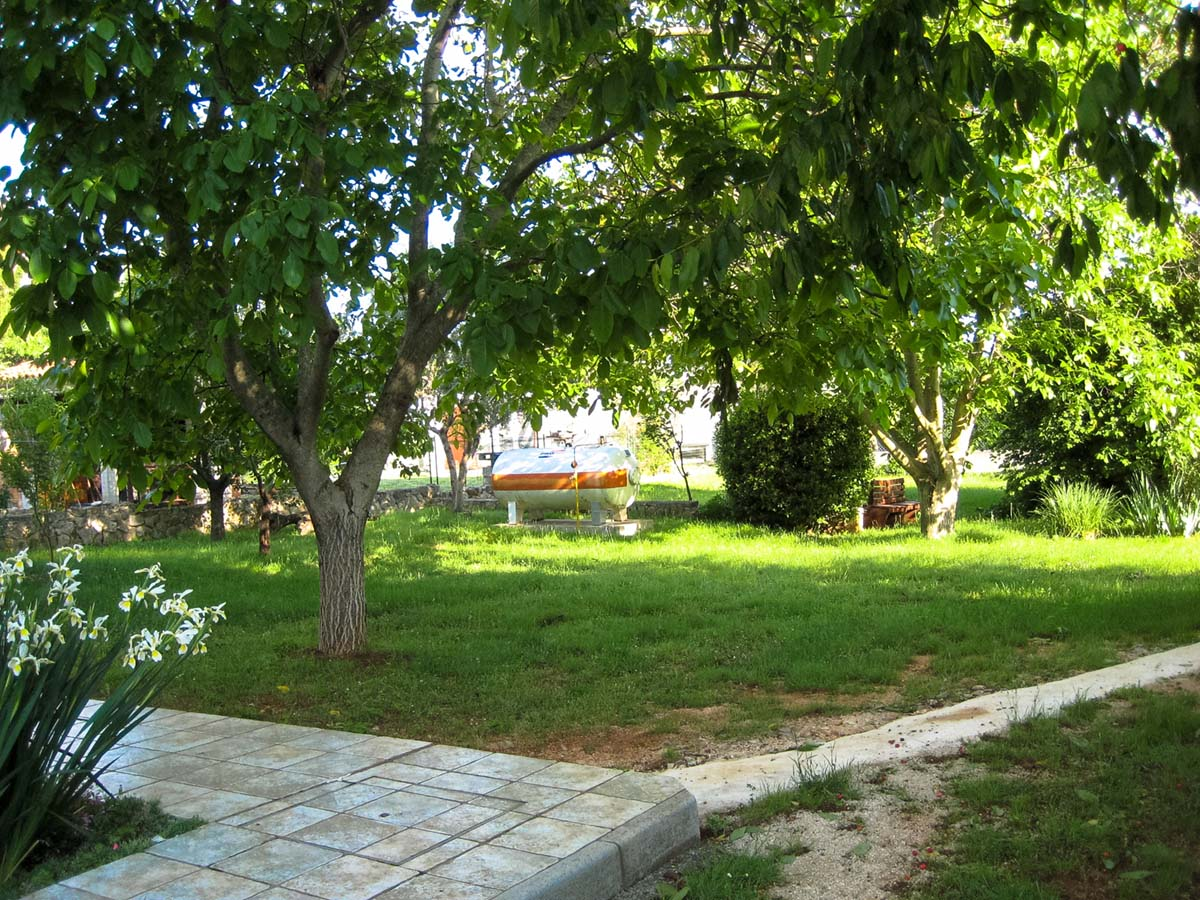
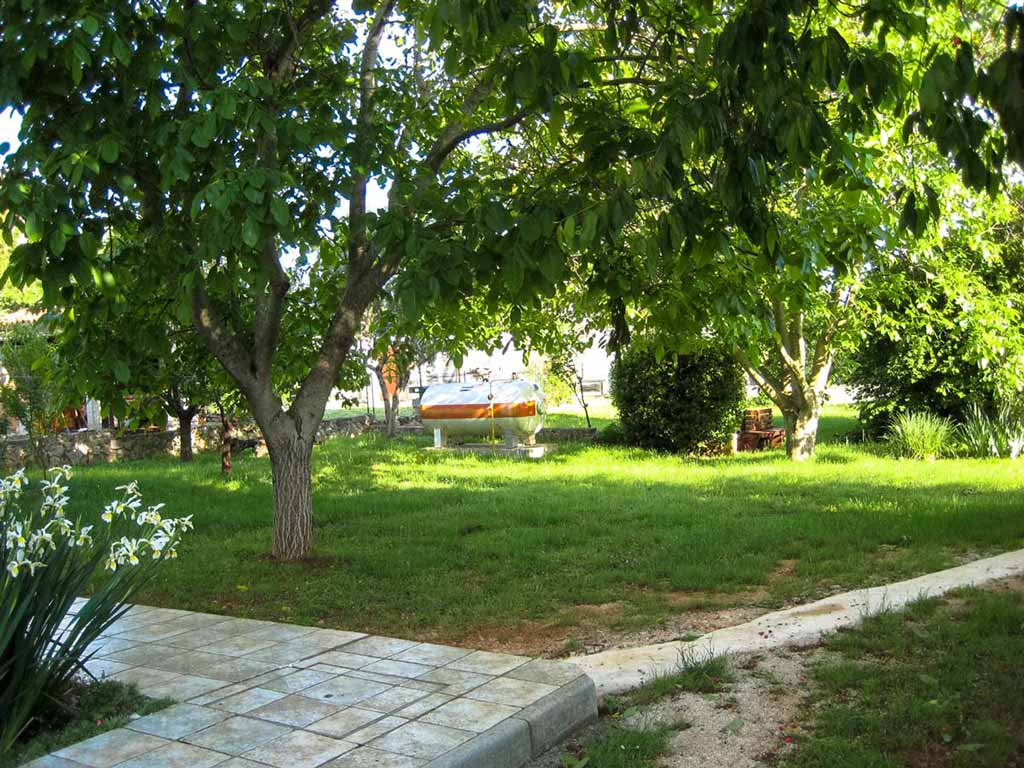
Resized Slide Show pics. Polishing translations.

diff --git a/index.html b/index.html
@@ -3,7 +3,7 @@
 <head>
   <title>Apartments "Coca-Letta" - affordable accommodation - apartment rental, in Rovinj, Croatia. Since 1987!</title>
   <meta name="description" content="Cozy, yet affordable accommodation in Rovinj, Croatia. Rented daily, weekly, monthly. Since 1987!">
-  <meta name="keyword" content="Rovinj, accommodation, szállás, apartment, rental, affordable, affordable apartment rental in rovinj">
+  <meta name="keyword" content="Rovinj, accommodation, szállás, Ubytování, mieszkanie, ubytovanie, apartment, rental, affordable, affordable apartment rental in rovinj">
   
   <meta charset="utf-8">
   <meta http-equiv="content-script-type" content="text/javascript"> 
@@ -115,7 +115,7 @@ alt="web analytics"></a></div></noscript>
 	<div id="header"> 
     	<a class="tr_apartments">Apartments</a><h> “Coca-Letta”</h><a> - Rovinj, </a><a class="tr_hrvatska">Croatia</a>
         <h1 class="tr_header_intro_text" id="header_intro_text">Cozy, affordable accommodation in Rovinj, Croatia. Since 1987.</h1>
-        <h1 class="tr_header_welcome_text" id="header_welcome_text">* Dobrodošli * Willkommen * Benvenuti * Welcome * Добро пожаловать * Vítáme vás * Bienvenidos * Fogadtatás * ברוך הבא *</h1>
+        <h1 class="tr_header_welcome_text" id="header_welcome_text">* Dobrodošli * Willkommen * Benvenuti * Welcome * Добро пожаловать * Vítáme vás * Bienvenidos * Isten hozta * ברוך הבא *</h1>
     </div>
     
   <div id="main_slider_kontejner">   
@@ -216,7 +216,7 @@ alt="web analytics"></a></div></noscript>
   </div>
         
   <div id="footer_band">
-	  <a id="footer_band_welcome_text">* Dobrodošli * Willkommen * Benvenuti * Welcome * Добро пожаловать * Vítáme vás * Bienvenidos * Fogadtatás * ברוך הבא *</a>
+	  <a id="footer_band_welcome_text">* Dobrodošli * Willkommen * Benvenuti * Welcome * Добро пожаловать * Vítáme vás * Bienvenidos * Isten hozta * ברוך הבא *</a>
   </div>
    
 </div>
